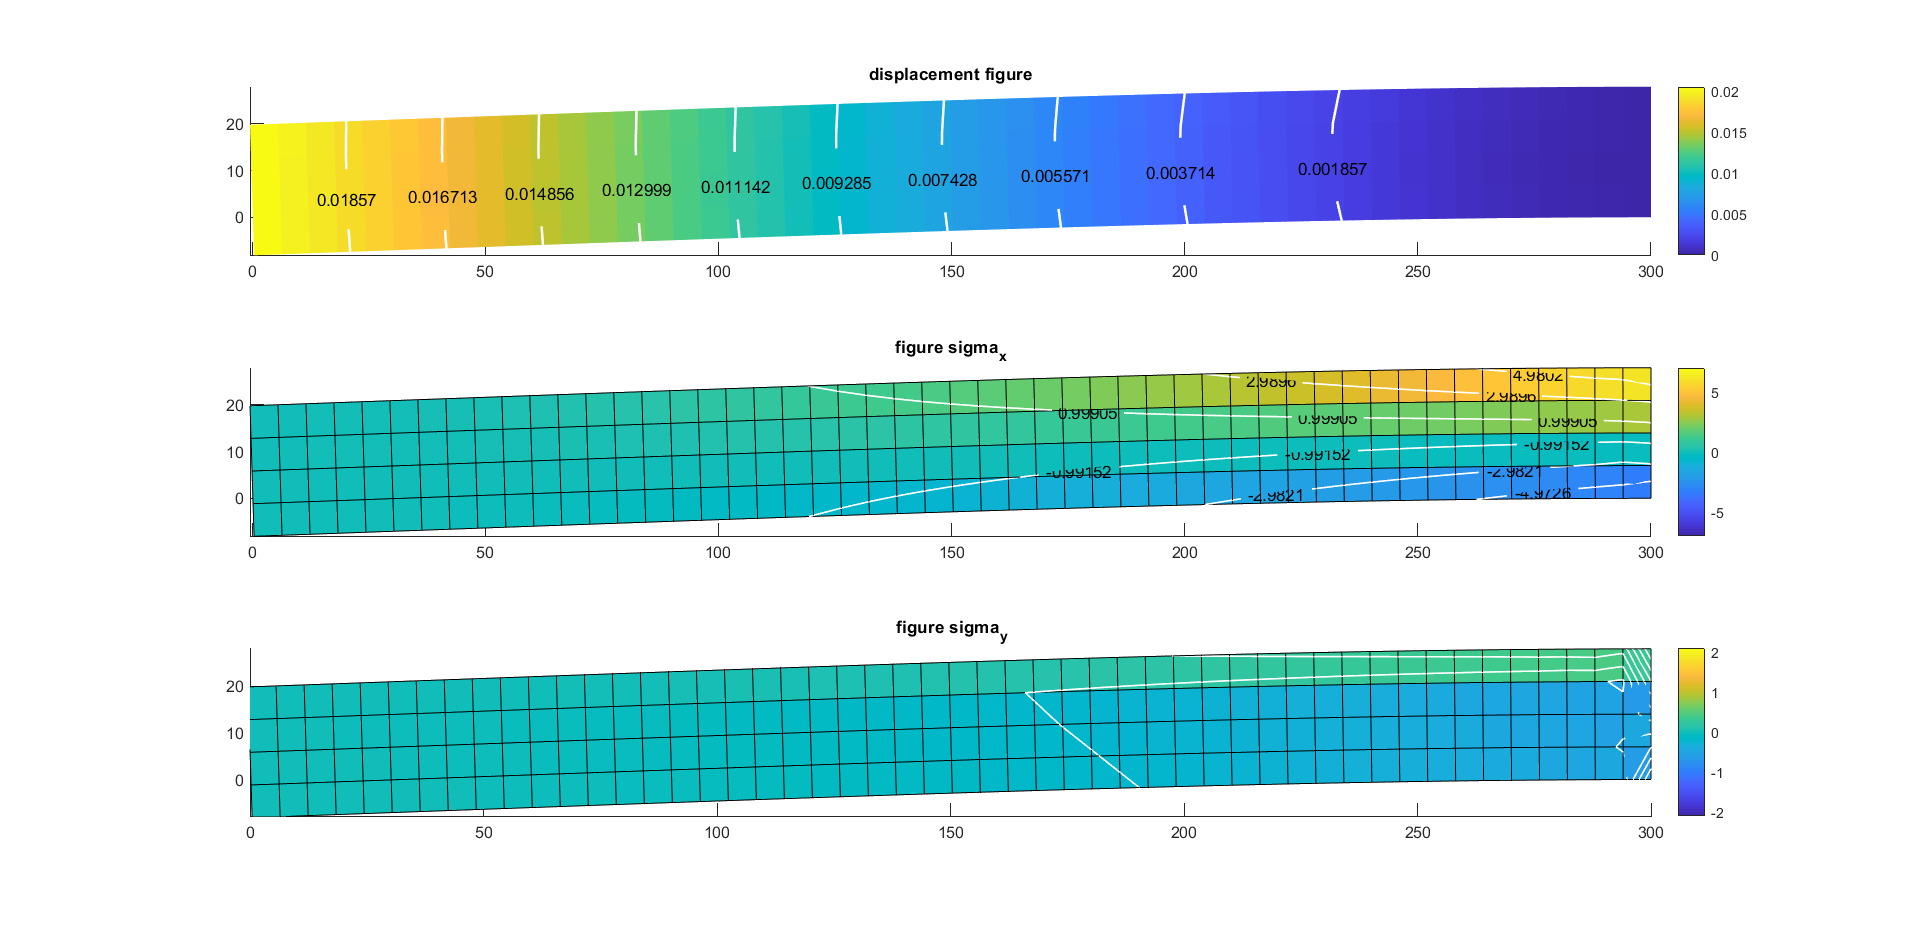
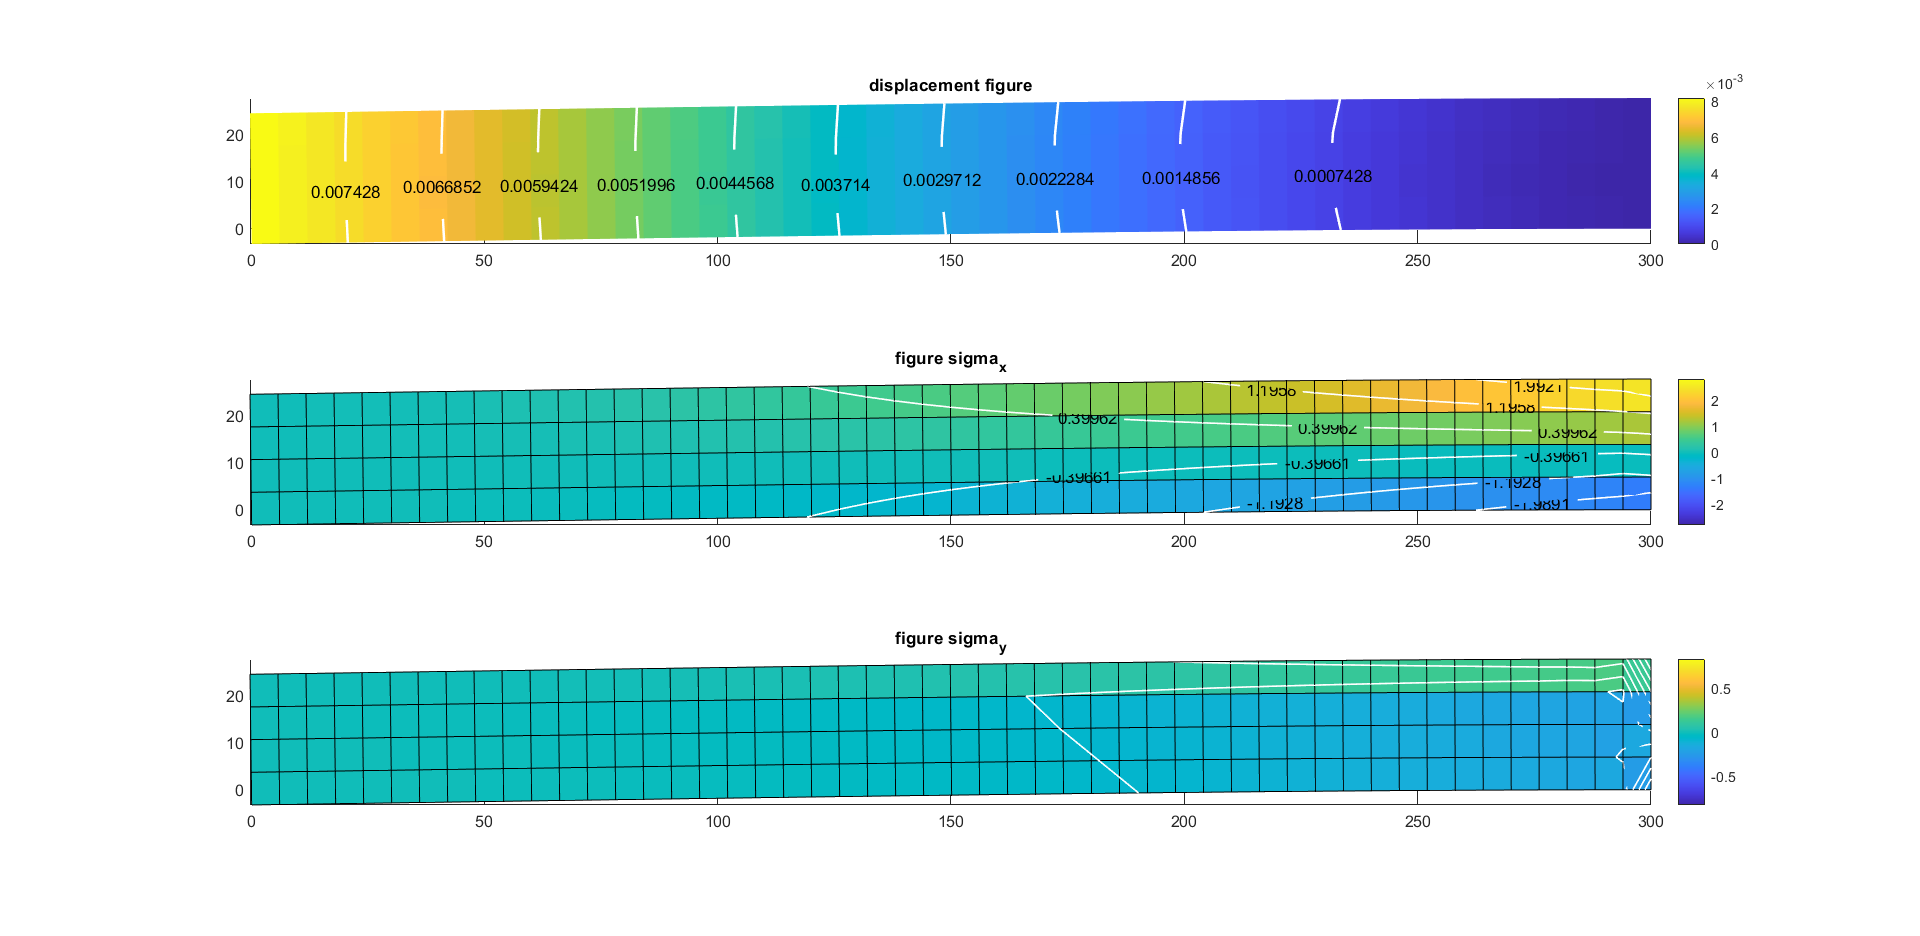
change pressure

diff --git a/main.m b/main.m
@@ -5,6 +5,7 @@ addpath(genpath("elements"));
 addpath(genpath("load_definition")); 
 addpath(genpath("meshing"))
 
+% mm为全局单位
 E = 2e5;
 nu = 0.3;
 thick = 10;
@@ -31,9 +32,9 @@ for i = 1: Mesh.elem_number
     K_t(glob_vec, glob_vec) = K_t(glob_vec, glob_vec) + elem.Ke;
 end
 
-% 使用网格计算节点在对应方向上的节点力 -> pressure 使用计算获取, 由于横向50个节点, 0.2N/mm, 长度300mm
-% 因此平均每个节点上分配 3 N
-Q = apply_pressure(Mesh, 3);
+% 使用网格计算节点在对应方向上的节点力 -> pressure 使用计算获取, 由于横向50段, 0.2N/mm, 长度300mm
+% 因此平均每个段上分配 1.2 N
+Q = apply_pressure(Mesh, 1.2);
 
 % 使用对角线乘大数的方法,同乘10^20
 for i = 2*(Mesh.node_number-Mesh.yelem_num) -1: 2*Mesh.node_number

diff --git a/plot_stress.m b/plot_stress.m
@@ -53,6 +53,8 @@ mat_size = [Mesh.yelem_num+1, Mesh.xelem_num+1];
 X = reshape(x_new, mat_size);
 Y = reshape(y_new, mat_size);
 Dis = reshape(node_displacement, mat_size);
+DisX = reshape(u, mat_size);
+DisY = reshape(v, mat_size);
 SigX = reshape(sigma_vec(1,:), mat_size);
 SigY = reshape(sigma_vec(2,:), mat_size);
 % 按照x,y序列重整sigma_x, sigma_y和D的规模
@@ -65,8 +67,10 @@ colorbar;
 title("displacement figure")
 axis equal
 
+
 subplot(3,1,2);
 hold on
+% ====== 绘制位移只需要把下面两行SigX改成DisX即可==========
 surf(X,Y, SigX);
 contour3(X,Y,SigX + eps,6,"LineWidth",1,"ShowText","on", "LineColor","white");
 colorbar;
